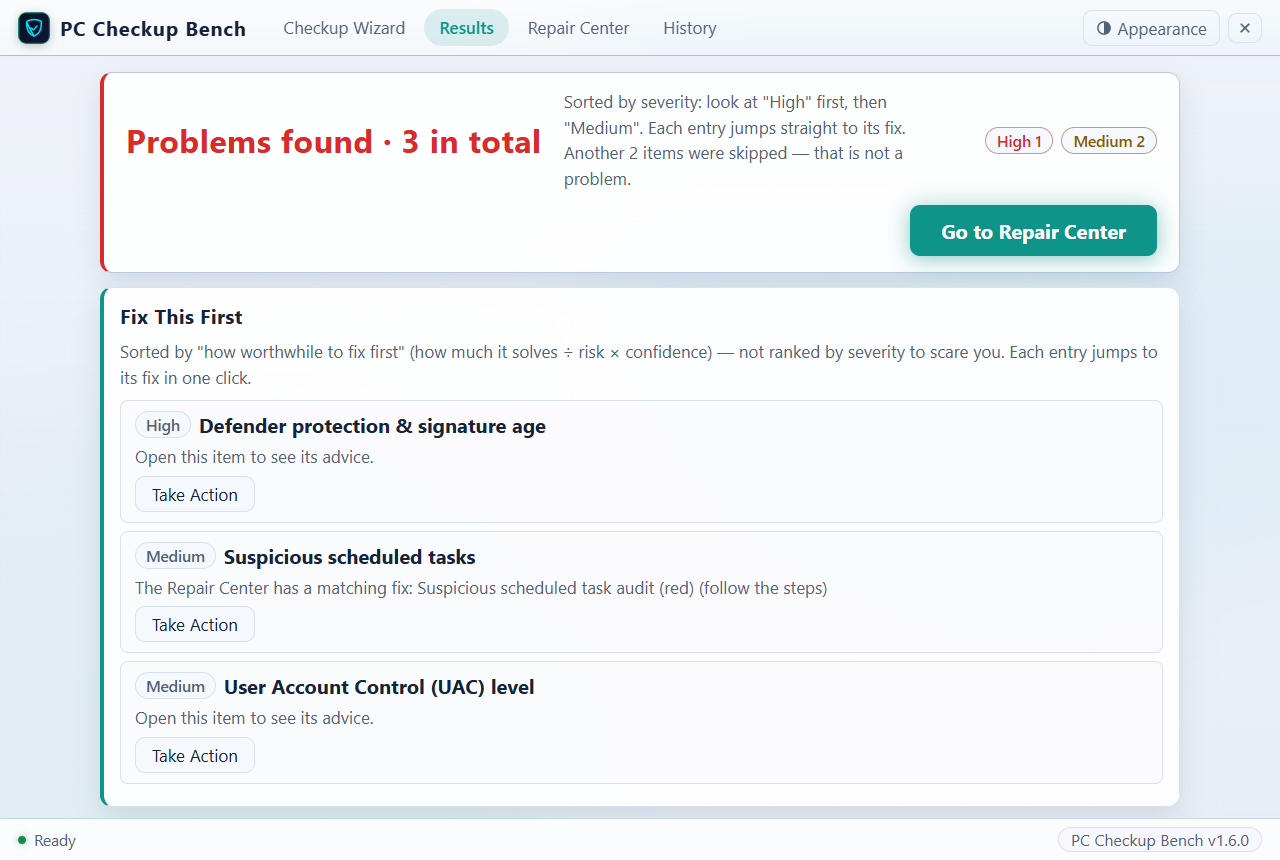
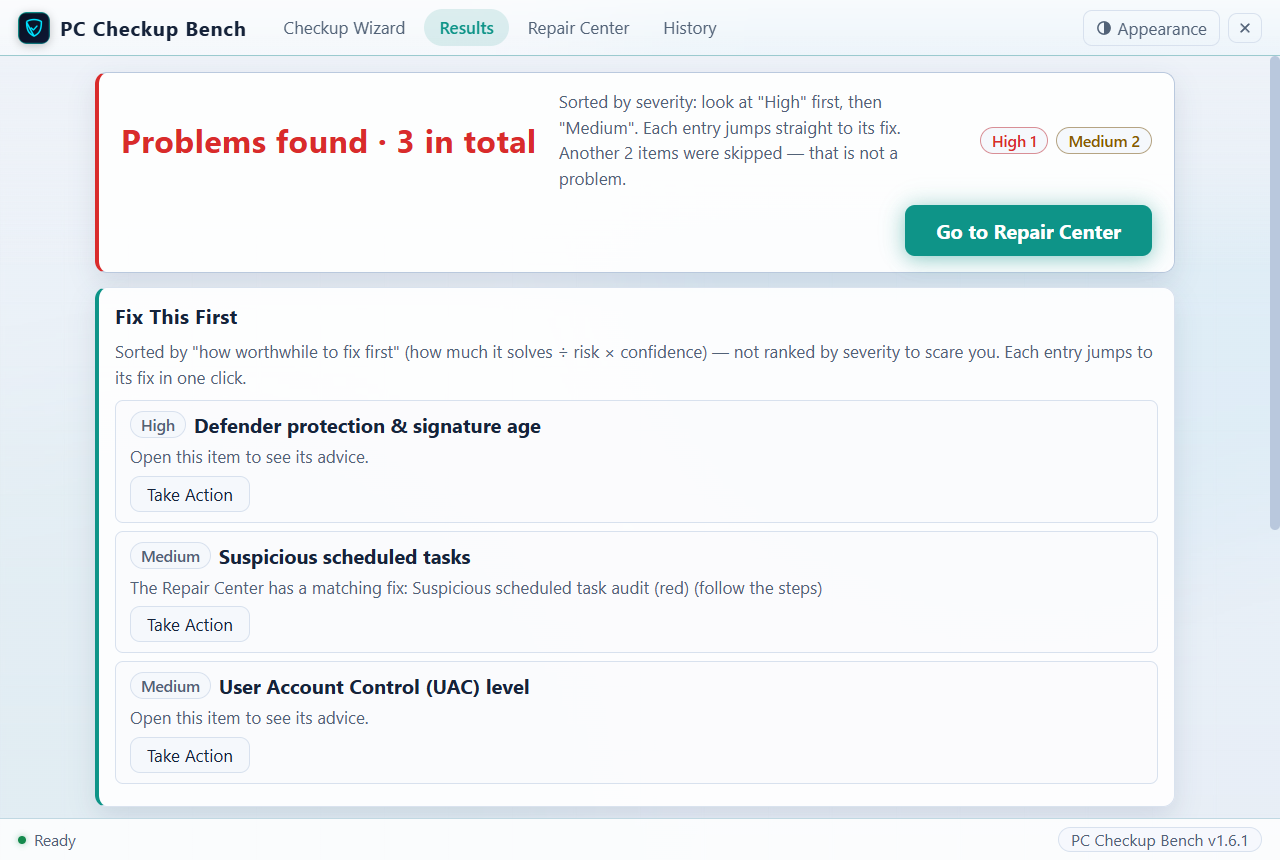
release: v1.6.1 收口——版本串全仓同步+截图四张重截+CHANGELOG 摘要+build/iss/lite 附带件

Changed region(s): [[0.0625, 0.0907, 0.9375, 0.9372], [0.6875, 0.1209, 0.9375, 0.3023], [0.9688, 0.0605, 1.0, 0.6047]]

diff --git a/CHANGELOG.md b/CHANGELOG.md
@@ -2,6 +2,14 @@
 
 > 面向用户的版本摘要。完整开发记录与工程细节不随仓库分发。
 
+## v1.6.1（2026-10-26）
+
+- 体检项目放开组合勾选：勾 2-5 类任意组合都能跑（原来只能全选或单类），出一份合并报告
+- 体检跑完或取消后，勾选表单直接可改可再跑，不用先点「再跑一次」
+- 窗口最小化放到后台不再自己退出：长时间后台后回来照常使用
+- 历史记录任意两份都能互比（原来只能最新比较早一次）；进度说法统一（「组」=检查分组、「项」=检查项）；结果页在较小窗口下问题清单不再被挤成一条缝
+- README 新增「自定义外观与背景」教程：明暗 / 强调色 / 换自己背景图 / 恢复默认
+
 ## v1.6.0（2026-10-25）
 
 - 新增「安全体检」第六类：微软 Defender 杀毒防护（防护开关 / 服务 / 近 30 天检出史 / 查杀排除项）与系统加固（UAC 档位 / 防火墙 / 磁盘加密 / 可疑计划任务）共 8 项检查
